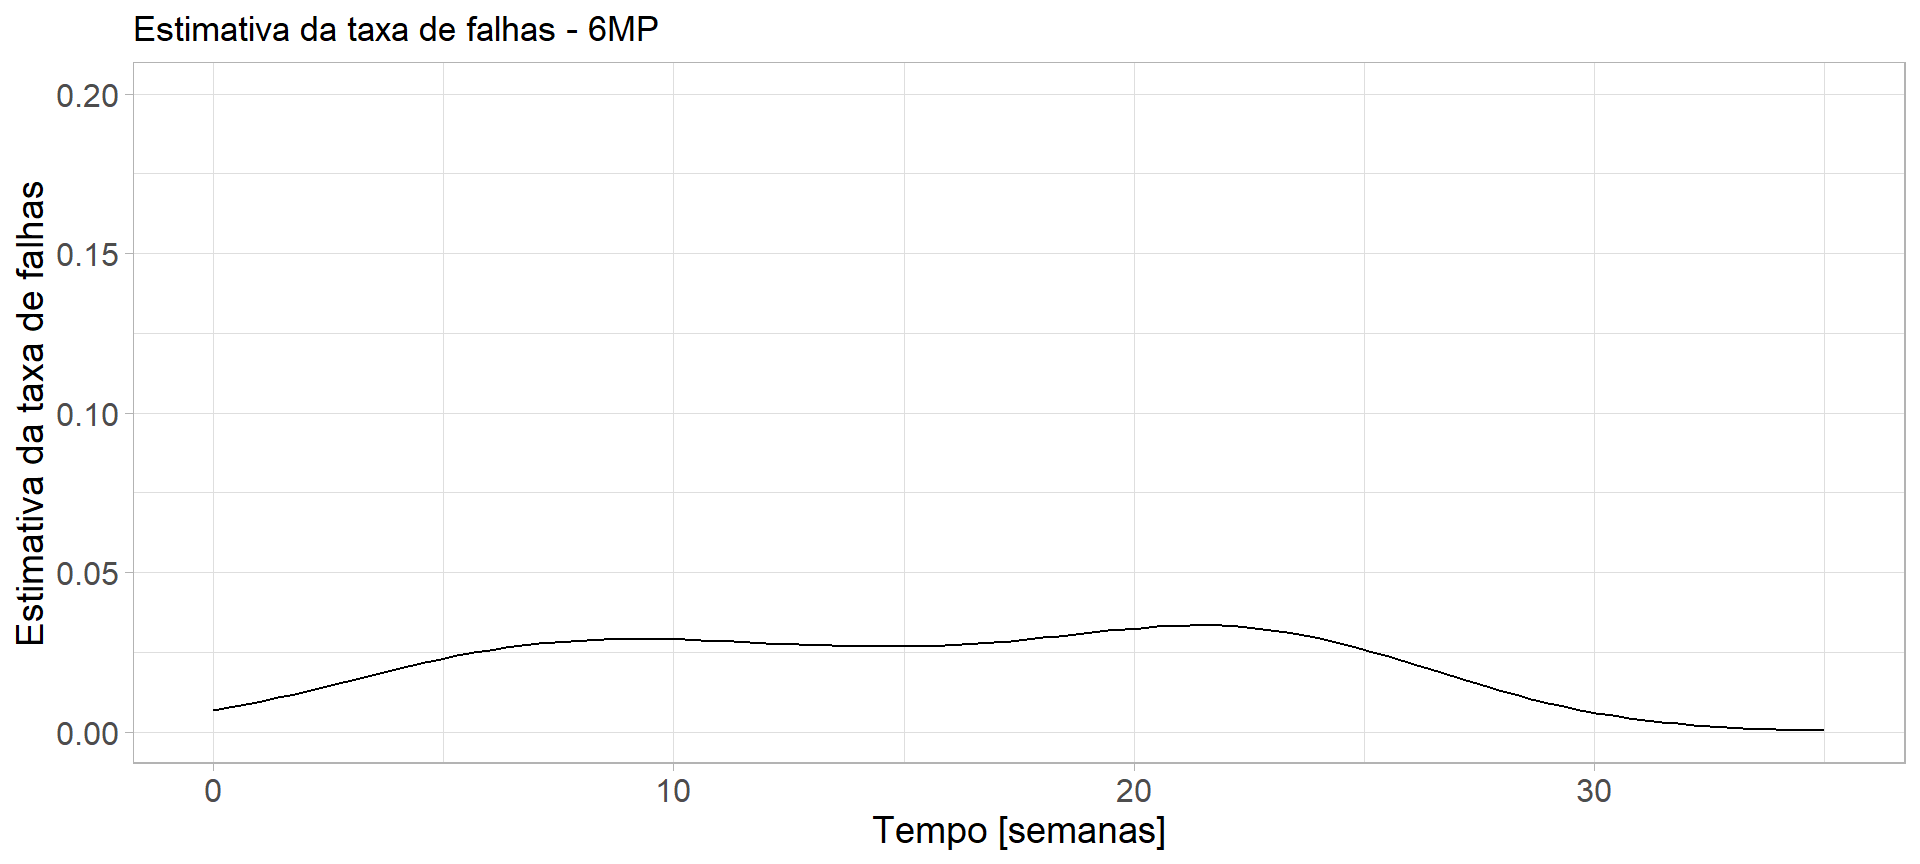
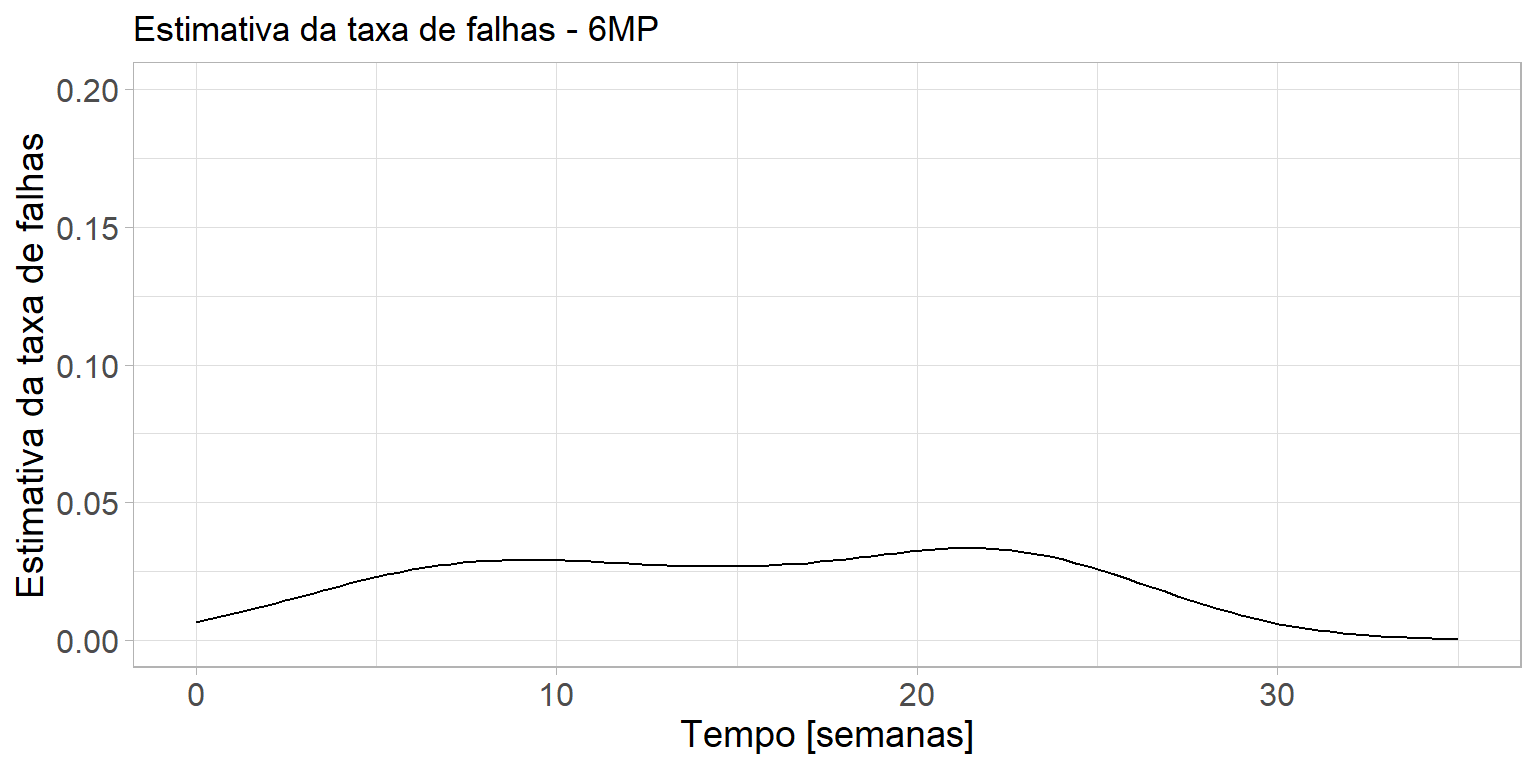
at12-09

diff --git a/_site/semanas/Aula02B.html b/_site/semanas/Aula02B.html
@@ -689,7 +689,7 @@ grupos=3 13       13     7.47      4.08      7.98
 </ul>
 <p>Vamos ver como isto pode ser feito na função survfit.</p>
 </section>
-<section id="curva-de-sobrevivência-estratificada-1" class="slide level2">
+<section id="curva-de-sobrevivência-estratificada-1" class="slide level2 smaller">
 <h2>Curva de Sobrevivência estratificada</h2>
 <div class="panel-tabset">
 <ul id="tabset-3" class="panel-tabset-tabby"><li><a data-tabby-default="" href="#tabset-3-1">Ajuste</a></li><li><a href="#tabset-3-2">Grafico</a></li></ul>
@@ -700,13 +700,51 @@ grupos=3 13       13     7.47      4.08      7.98
 <span id="cb21-2"><a href="#cb21-2"></a><span class="fu">library</span>(readxl)</span>
 <span id="cb21-3"><a href="#cb21-3"></a>dados_a <span class="ot">&lt;-</span> <span class="fu">read_xlsx</span>(<span class="st">"anderson.xlsx"</span>, <span class="at">col_names=</span>T)</span>
 <span id="cb21-4"><a href="#cb21-4"></a>ajusteKM_S <span class="ot">&lt;-</span> <span class="fu">survfit</span>(<span class="fu">Surv</span>(tempo, status) <span class="sc">~</span> Rx <span class="sc">+</span> <span class="fu">strata</span>(sexo), <span class="at">data =</span> dados_a)</span>
-<span id="cb21-5"><a href="#cb21-5"></a><span class="in">```</span></span></code><button title="Copy to Clipboard" class="code-copy-button"><i class="bi"></i></button></pre></div>
+<span id="cb21-5"><a href="#cb21-5"></a><span class="fu">summary</span>(ajusteKM_S)</span>
+<span id="cb21-6"><a href="#cb21-6"></a><span class="in">```</span></span></code><button title="Copy to Clipboard" class="code-copy-button"><i class="bi"></i></button></pre></div>
+<div class="cell-output cell-output-stdout">
+<pre><code>Call: survfit(formula = Surv(tempo, status) ~ Rx + strata(sexo), data = dados_a)
+
+                Rx=0, strata(sexo)=sexo=0 
+ time n.risk n.event survival std.err lower 95% CI upper 95% CI
+    6     11       2    0.818   0.116        0.619            1
+    7      8       1    0.716   0.140        0.488            1
+   10      6       1    0.597   0.159        0.353            1
+   13      3       1    0.398   0.194        0.153            1
+
+                Rx=0, strata(sexo)=sexo=1 
+ time n.risk n.event survival std.err lower 95% CI upper 95% CI
+    6     10       1    0.900  0.0949        0.732            1
+   16      9       1    0.800  0.1265        0.587            1
+   22      7       1    0.686  0.1515        0.445            1
+   23      6       1    0.571  0.1638        0.326            1
+
+                Rx=1, strata(sexo)=sexo=0 
+ time n.risk n.event survival std.err lower 95% CI upper 95% CI
+    5     11       1   0.9091  0.0867       0.7541        1.000
+    8     10       3   0.6364  0.1450       0.4071        0.995
+   11      7       2   0.4545  0.1501       0.2379        0.868
+   12      5       2   0.2727  0.1343       0.1039        0.716
+   15      3       1   0.1818  0.1163       0.0519        0.637
+   17      2       1   0.0909  0.0867       0.0140        0.589
+   22      1       1   0.0000     NaN           NA           NA
+
+                Rx=1, strata(sexo)=sexo=1 
+ time n.risk n.event survival std.err lower 95% CI upper 95% CI
+    1     10       2      0.8  0.1265       0.5868        1.000
+    2      8       2      0.6  0.1549       0.3617        0.995
+    3      6       1      0.5  0.1581       0.2690        0.929
+    4      5       2      0.3  0.1449       0.1164        0.773
+    5      3       1      0.2  0.1265       0.0579        0.691
+    8      2       1      0.1  0.0949       0.0156        0.642
+   23      1       1      0.0     NaN           NA           NA</code></pre>
+</div>
 </div>
 </div>
 <div id="tabset-3-2">
 <div class="cell">
-<div class="sourceCode cell-code" id="cb22"><pre class="sourceCode numberSource r number-lines code-with-copy"><code class="sourceCode r"><span id="cb22-1"><a href="#cb22-1"></a><span class="fu">plot</span>(ajusteKM_S, <span class="at">xlab=</span><span class="st">"T(semanas)"</span>,<span class="at">ylab=</span><span class="st">"S(t)"</span>, <span class="at">lty=</span><span class="dv">1</span><span class="sc">:</span><span class="dv">4</span>) </span>
-<span id="cb22-2"><a href="#cb22-2"></a><span class="fu">legend</span>(<span class="st">"topright"</span>,<span class="fu">c</span>(<span class="st">"Rx=0 e Sexo=M"</span>,<span class="st">"Rx=0 e Sexo=F"</span>, <span class="st">"Rx=1 e Sexo=M"</span>, <span class="st">"Rx=1 e Sexo=F"</span>), <span class="at">lty =</span> <span class="dv">1</span><span class="sc">:</span><span class="dv">4</span>)</span></code><button title="Copy to Clipboard" class="code-copy-button"><i class="bi"></i></button></pre></div>
+<div class="sourceCode cell-code" id="cb23"><pre class="sourceCode numberSource r number-lines code-with-copy"><code class="sourceCode r"><span id="cb23-1"><a href="#cb23-1"></a><span class="fu">plot</span>(ajusteKM_S, <span class="at">xlab=</span><span class="st">"T(semanas)"</span>,<span class="at">ylab=</span><span class="st">"S(t)"</span>, <span class="at">lty=</span><span class="dv">1</span><span class="sc">:</span><span class="dv">4</span>) </span>
+<span id="cb23-2"><a href="#cb23-2"></a><span class="fu">legend</span>(<span class="st">"topright"</span>,<span class="fu">c</span>(<span class="st">"Rx=0 e Sexo=F"</span>,<span class="st">"Rx=0 e Sexo=M"</span>, <span class="st">"Rx=1 e Sexo=F"</span>, <span class="st">"Rx=1 e Sexo=M"</span>), <span class="at">lty =</span> <span class="dv">1</span><span class="sc">:</span><span class="dv">4</span>)</span></code><button title="Copy to Clipboard" class="code-copy-button"><i class="bi"></i></button></pre></div>
 <div class="cell-output-display">
 <p><img data-src="Aula02B_files/figure-revealjs/unnamed-chunk-14-1.png" width="960"></p>
 </div>
@@ -718,7 +756,7 @@ grupos=3 13       13     7.47      4.08      7.98
 <section id="teste-do-log-rank-2" class="slide level2">
 <h2>Teste do log-rank</h2>
 <div class="cell">
-<div class="sourceCode cell-code" id="cb23"><pre class="sourceCode numberSource r number-lines code-with-copy"><code class="sourceCode r"><span id="cb23-1"><a href="#cb23-1"></a><span class="fu">survdiff</span>(<span class="fu">Surv</span>(tempo, status) <span class="sc">~</span> Rx, <span class="at">data =</span> dados_a)</span></code><button title="Copy to Clipboard" class="code-copy-button"><i class="bi"></i></button></pre></div>
+<div class="sourceCode cell-code" id="cb24"><pre class="sourceCode numberSource r number-lines code-with-copy"><code class="sourceCode r"><span id="cb24-1"><a href="#cb24-1"></a><span class="fu">survdiff</span>(<span class="fu">Surv</span>(tempo, status) <span class="sc">~</span> Rx, <span class="at">data =</span> dados_a)</span></code><button title="Copy to Clipboard" class="code-copy-button"><i class="bi"></i></button></pre></div>
 <div class="cell-output cell-output-stdout">
 <pre><code>Call:
 survdiff(formula = Surv(tempo, status) ~ Rx, data = dados_a)
@@ -729,7 +767,7 @@ Rx=1 21       21     10.7      9.77      16.8
 
  Chisq= 16.8  on 1 degrees of freedom, p= 4e-05 </code></pre>
 </div>
-<div class="sourceCode cell-code" id="cb25"><pre class="sourceCode numberSource r number-lines code-with-copy"><code class="sourceCode r"><span id="cb25-1"><a href="#cb25-1"></a><span class="fu">survdiff</span>(<span class="fu">Surv</span>(tempo, status) <span class="sc">~</span> Rx <span class="sc">+</span> <span class="fu">strata</span>(sexo), <span class="at">data =</span> dados_a)</span></code><button title="Copy to Clipboard" class="code-copy-button"><i class="bi"></i></button></pre></div>
+<div class="sourceCode cell-code" id="cb26"><pre class="sourceCode numberSource r number-lines code-with-copy"><code class="sourceCode r"><span id="cb26-1"><a href="#cb26-1"></a><span class="fu">survdiff</span>(<span class="fu">Surv</span>(tempo, status) <span class="sc">~</span> Rx <span class="sc">+</span> <span class="fu">strata</span>(sexo), <span class="at">data =</span> dados_a)</span></code><button title="Copy to Clipboard" class="code-copy-button"><i class="bi"></i></button></pre></div>
 <div class="cell-output cell-output-stdout">
 <pre><code>Call:
 survdiff(formula = Surv(tempo, status) ~ Rx + strata(sexo), data = dados_a)
@@ -745,24 +783,24 @@ Rx=1 21       21     13.5      4.23       9.7
 <section id="explorando-os-dados" class="slide level2">
 <h2>Explorando os dados</h2>
 <div class="cell">
-<div class="sourceCode cell-code" id="cb27"><pre class="sourceCode numberSource r number-lines code-with-copy"><code class="sourceCode r"><span id="cb27-1"><a href="#cb27-1"></a><span class="fu">summary</span>(<span class="fu">as.factor</span>(dados_a<span class="sc">$</span>sexo))</span></code><button title="Copy to Clipboard" class="code-copy-button"><i class="bi"></i></button></pre></div>
+<div class="sourceCode cell-code" id="cb28"><pre class="sourceCode numberSource r number-lines code-with-copy"><code class="sourceCode r"><span id="cb28-1"><a href="#cb28-1"></a><span class="fu">summary</span>(<span class="fu">as.factor</span>(dados_a<span class="sc">$</span>sexo))</span></code><button title="Copy to Clipboard" class="code-copy-button"><i class="bi"></i></button></pre></div>
 <div class="cell-output cell-output-stdout">
 <pre><code> 0  1 
 22 20 </code></pre>
 </div>
-<div class="sourceCode cell-code" id="cb29"><pre class="sourceCode numberSource r number-lines code-with-copy"><code class="sourceCode r"><span id="cb29-1"><a href="#cb29-1"></a><span class="fu">sum</span>(dados_a<span class="sc">$</span>sexo<span class="sc">==</span><span class="dv">0</span> <span class="sc">&amp;</span> dados_a<span class="sc">$</span>Rx<span class="sc">==</span><span class="dv">0</span>)</span></code><button title="Copy to Clipboard" class="code-copy-button"><i class="bi"></i></button></pre></div>
+<div class="sourceCode cell-code" id="cb30"><pre class="sourceCode numberSource r number-lines code-with-copy"><code class="sourceCode r"><span id="cb30-1"><a href="#cb30-1"></a><span class="fu">sum</span>(dados_a<span class="sc">$</span>sexo<span class="sc">==</span><span class="dv">0</span> <span class="sc">&amp;</span> dados_a<span class="sc">$</span>Rx<span class="sc">==</span><span class="dv">0</span>)</span></code><button title="Copy to Clipboard" class="code-copy-button"><i class="bi"></i></button></pre></div>
 <div class="cell-output cell-output-stdout">
 <pre><code>[1] 11</code></pre>
 </div>
-<div class="sourceCode cell-code" id="cb31"><pre class="sourceCode numberSource r number-lines code-with-copy"><code class="sourceCode r"><span id="cb31-1"><a href="#cb31-1"></a><span class="fu">sum</span>(dados_a<span class="sc">$</span>sexo<span class="sc">==</span><span class="dv">1</span> <span class="sc">&amp;</span> dados_a<span class="sc">$</span>Rx<span class="sc">==</span><span class="dv">0</span>)</span></code><button title="Copy to Clipboard" class="code-copy-button"><i class="bi"></i></button></pre></div>
+<div class="sourceCode cell-code" id="cb32"><pre class="sourceCode numberSource r number-lines code-with-copy"><code class="sourceCode r"><span id="cb32-1"><a href="#cb32-1"></a><span class="fu">sum</span>(dados_a<span class="sc">$</span>sexo<span class="sc">==</span><span class="dv">1</span> <span class="sc">&amp;</span> dados_a<span class="sc">$</span>Rx<span class="sc">==</span><span class="dv">0</span>)</span></code><button title="Copy to Clipboard" class="code-copy-button"><i class="bi"></i></button></pre></div>
 <div class="cell-output cell-output-stdout">
 <pre><code>[1] 10</code></pre>
 </div>
-<div class="sourceCode cell-code" id="cb33"><pre class="sourceCode numberSource r number-lines code-with-copy"><code class="sourceCode r"><span id="cb33-1"><a href="#cb33-1"></a><span class="fu">sum</span>(dados_a<span class="sc">$</span>sexo<span class="sc">==</span><span class="dv">0</span> <span class="sc">&amp;</span> dados_a<span class="sc">$</span>Rx<span class="sc">==</span><span class="dv">1</span>)</span></code><button title="Copy to Clipboard" class="code-copy-button"><i class="bi"></i></button></pre></div>
+<div class="sourceCode cell-code" id="cb34"><pre class="sourceCode numberSource r number-lines code-with-copy"><code class="sourceCode r"><span id="cb34-1"><a href="#cb34-1"></a><span class="fu">sum</span>(dados_a<span class="sc">$</span>sexo<span class="sc">==</span><span class="dv">0</span> <span class="sc">&amp;</span> dados_a<span class="sc">$</span>Rx<span class="sc">==</span><span class="dv">1</span>)</span></code><button title="Copy to Clipboard" class="code-copy-button"><i class="bi"></i></button></pre></div>
 <div class="cell-output cell-output-stdout">
 <pre><code>[1] 11</code></pre>
 </div>
-<div class="sourceCode cell-code" id="cb35"><pre class="sourceCode numberSource r number-lines code-with-copy"><code class="sourceCode r"><span id="cb35-1"><a href="#cb35-1"></a><span class="fu">sum</span>(dados_a<span class="sc">$</span>sexo<span class="sc">==</span><span class="dv">1</span> <span class="sc">&amp;</span> dados_a<span class="sc">$</span>Rx<span class="sc">==</span><span class="dv">1</span>)</span></code><button title="Copy to Clipboard" class="code-copy-button"><i class="bi"></i></button></pre></div>
+<div class="sourceCode cell-code" id="cb36"><pre class="sourceCode numberSource r number-lines code-with-copy"><code class="sourceCode r"><span id="cb36-1"><a href="#cb36-1"></a><span class="fu">sum</span>(dados_a<span class="sc">$</span>sexo<span class="sc">==</span><span class="dv">1</span> <span class="sc">&amp;</span> dados_a<span class="sc">$</span>Rx<span class="sc">==</span><span class="dv">1</span>)</span></code><button title="Copy to Clipboard" class="code-copy-button"><i class="bi"></i></button></pre></div>
 <div class="cell-output cell-output-stdout">
 <pre><code>[1] 10</code></pre>
 </div>

diff --git a/_site/semanas/Aula02C.html b/_site/semanas/Aula02C.html
@@ -439,16 +439,14 @@ Prof.&nbsp;Ricardo Accioly
 <div id="tabset-1-1">
 <div class="cell">
 <div class="sourceCode cell-code" id="cb1"><pre class="sourceCode numberSource r number-lines code-with-copy"><code class="sourceCode r"><span id="cb1-1"><a href="#cb1-1"></a><span class="fu">library</span>(survival)</span>
-<span id="cb1-2"><a href="#cb1-2"></a>tempo<span class="ot">&lt;-</span> <span class="fu">c</span>(<span class="dv">6</span>,<span class="dv">6</span>,<span class="dv">6</span>,<span class="dv">6</span>,<span class="dv">7</span>,<span class="dv">9</span>,<span class="dv">10</span>,<span class="dv">10</span>,<span class="dv">11</span>,<span class="dv">13</span>,<span class="dv">16</span>,<span class="dv">17</span>,<span class="dv">19</span>,<span class="dv">20</span>,<span class="dv">22</span>,<span class="dv">23</span>,<span class="dv">25</span>,<span class="dv">32</span>,<span class="dv">32</span>,<span class="dv">34</span>,<span class="dv">35</span>)</span>
-<span id="cb1-3"><a href="#cb1-3"></a>status<span class="ot">&lt;-</span> <span class="fu">c</span>(<span class="dv">1</span>,<span class="dv">1</span>,<span class="dv">1</span>,<span class="dv">0</span>,<span class="dv">1</span>,<span class="dv">0</span>,<span class="dv">1</span>,<span class="dv">0</span>,<span class="dv">0</span>,<span class="dv">1</span>,<span class="dv">1</span>,<span class="dv">0</span>,<span class="dv">0</span>,<span class="dv">0</span>,<span class="dv">1</span>,<span class="dv">1</span>,<span class="dv">0</span>,<span class="dv">0</span>,<span class="dv">0</span>,<span class="dv">0</span>,<span class="dv">0</span>) </span>
-<span id="cb1-4"><a href="#cb1-4"></a>dados <span class="ot">&lt;-</span> <span class="fu">data.frame</span>(<span class="at">tempos=</span>tempo, <span class="at">status=</span>status)</span>
-<span id="cb1-5"><a href="#cb1-5"></a>ajusteKM <span class="ot">&lt;-</span> <span class="fu">survfit</span>(<span class="fu">Surv</span>(tempos, status) <span class="sc">~</span> <span class="dv">1</span>, <span class="at">data=</span>dados)</span>
-<span id="cb1-6"><a href="#cb1-6"></a>ajusteKM_sum <span class="ot">&lt;-</span> <span class="fu">summary</span>(ajusteKM)</span>
-<span id="cb1-7"><a href="#cb1-7"></a>pesos <span class="ot">&lt;-</span> ajusteKM_sum<span class="sc">$</span>n.event<span class="sc">/</span>ajusteKM_sum<span class="sc">$</span>n.risk</span>
-<span id="cb1-8"><a href="#cb1-8"></a>h <span class="ot">&lt;-</span> <span class="fu">density</span>(ajusteKM_sum<span class="sc">$</span>time, <span class="at">weights =</span> pesos,</span>
-<span id="cb1-9"><a href="#cb1-9"></a><span class="at">kernel =</span> <span class="st">"gaussian"</span>, <span class="at">n =</span> <span class="dv">100</span>, <span class="at">from =</span> <span class="dv">0</span>, <span class="at">to =</span> <span class="dv">35</span>)</span>
-<span id="cb1-10"><a href="#cb1-10"></a><span class="fu">library</span>(ggplot2)</span>
-<span id="cb1-11"><a href="#cb1-11"></a>data <span class="ot">&lt;-</span> <span class="fu">data.frame</span>(<span class="at">x=</span>h<span class="sc">$</span>x, <span class="at">y=</span>h<span class="sc">$</span>y)</span></code><button title="Copy to Clipboard" class="code-copy-button"><i class="bi"></i></button></pre></div>
+<span id="cb1-2"><a href="#cb1-2"></a><span class="fu">library</span>(readxl)</span>
+<span id="cb1-3"><a href="#cb1-3"></a>dados <span class="ot">&lt;-</span> <span class="fu">read_xlsx</span>(<span class="st">"anderson.xlsx"</span>, <span class="at">col_names =</span> <span class="cn">TRUE</span>)</span>
+<span id="cb1-4"><a href="#cb1-4"></a>ajusteKM <span class="ot">&lt;-</span> <span class="fu">survfit</span>(<span class="fu">Surv</span>(tempo, status) <span class="sc">~</span> <span class="dv">1</span>, <span class="at">subset =</span> (Rx<span class="sc">==</span><span class="dv">0</span>), <span class="at">data=</span>dados)</span>
+<span id="cb1-5"><a href="#cb1-5"></a>ajusteKM_sum <span class="ot">&lt;-</span> <span class="fu">summary</span>(ajusteKM)</span>
+<span id="cb1-6"><a href="#cb1-6"></a>pesos <span class="ot">&lt;-</span> ajusteKM_sum<span class="sc">$</span>n.event<span class="sc">/</span>ajusteKM_sum<span class="sc">$</span>n.risk</span>
+<span id="cb1-7"><a href="#cb1-7"></a>h <span class="ot">&lt;-</span> <span class="fu">density</span>(ajusteKM_sum<span class="sc">$</span>time, <span class="at">kernel =</span> <span class="st">"gaussian"</span>, <span class="at">n =</span> <span class="dv">100</span>, <span class="at">from =</span> <span class="dv">0</span>, <span class="at">to =</span> <span class="dv">35</span>, <span class="at">weights =</span> pesos)</span>
+<span id="cb1-8"><a href="#cb1-8"></a><span class="fu">library</span>(ggplot2)</span>
+<span id="cb1-9"><a href="#cb1-9"></a>data <span class="ot">&lt;-</span> <span class="fu">data.frame</span>(<span class="at">x=</span>h<span class="sc">$</span>x, <span class="at">y=</span>h<span class="sc">$</span>y)</span></code><button title="Copy to Clipboard" class="code-copy-button"><i class="bi"></i></button></pre></div>
 </div>
 </div>
 <div id="tabset-1-2">
@@ -458,7 +456,7 @@ Prof.&nbsp;Ricardo Accioly
 <span id="cb2-3"><a href="#cb2-3"></a>        <span class="at">axis.title =</span> <span class="fu">element_text</span>(<span class="at">size =</span> <span class="dv">14</span>)) <span class="sc">+</span></span>
 <span id="cb2-4"><a href="#cb2-4"></a>  <span class="fu">labs</span>(<span class="at">x =</span> <span class="st">"Tempo [semanas]"</span>, <span class="at">y =</span> <span class="st">"Estimativa da taxa de falhas"</span>, <span class="at">title =</span> <span class="st">"Estimativa da taxa de falhas - 6MP"</span>)</span></code><button title="Copy to Clipboard" class="code-copy-button"><i class="bi"></i></button></pre></div>
 <div class="cell-output-display">
-<p><img data-src="Aula02C_files/figure-revealjs/unnamed-chunk-2-1.png" width="960"></p>
+<p><img data-src="Aula02C_files/figure-revealjs/unnamed-chunk-2-1.png" width="768"></p>
 </div>
 </div>
 </div>
@@ -490,7 +488,7 @@ Prof.&nbsp;Ricardo Accioly
 <span id="cb4-3"><a href="#cb4-3"></a>        <span class="at">axis.title =</span> <span class="fu">element_text</span>(<span class="at">size =</span> <span class="dv">14</span>)) <span class="sc">+</span></span>
 <span id="cb4-4"><a href="#cb4-4"></a>  <span class="fu">labs</span>(<span class="at">x =</span> <span class="st">"Tempo [semanas]"</span>, <span class="at">y =</span> <span class="st">"Estimativa da taxa de falhas"</span>, <span class="at">title =</span> <span class="st">"Estimativa da taxa de falhas - Placebo"</span>)</span></code><button title="Copy to Clipboard" class="code-copy-button"><i class="bi"></i></button></pre></div>
 <div class="cell-output-display">
-<p><img data-src="Aula02C_files/figure-revealjs/unnamed-chunk-4-1.png" width="960"></p>
+<p><img data-src="Aula02C_files/figure-revealjs/unnamed-chunk-4-1.png" width="768"></p>
 </div>
 </div>
 </div>
